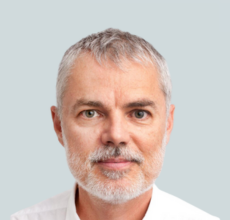
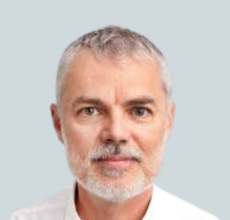
Add photos for Dan Constantin, Mihai Craiu, Ioan Hanes

diff --git a/app/echipa/page.tsx b/app/echipa/page.tsx
@@ -28,7 +28,7 @@ const consiliulStiintific = [
   { name: "Prof. Dr. Alexandra Ghement", image: "/images/prof-dr-alexandra-ghement.png" },
   { name: "Conf. Dr. Adorata Elena Coman", image: "/images/conf-dr-adorata-coman.png" },
   { name: "Șef Lucr. Dr. Adriana Lavinia Cioca", image: "/images/sef-lucr-dr-adriana-cioca.png" },
-  { name: "Șef Lucr. Dr. Dan Constantin", image: "/images/sef-lucr-dr-dan-constantin.jpg" },
+  { name: "Șef Lucr. Dr. Dan Constantin", image: "/images/sef-lucr-dr-dan-constantin.png" },
   { name: "Prof. Dr. Lorena Dima", image: "/images/prof-dr-lorena-dima.png" },
   { name: "Conf. Dr. Gindrovel Dumitra", image: "/images/conf-dr-gindrovel-dumitra.png" },
   { name: "Prof. Dr. Roxana Folescu", image: "/images/prof-dr-roxana-folescu.png" },
